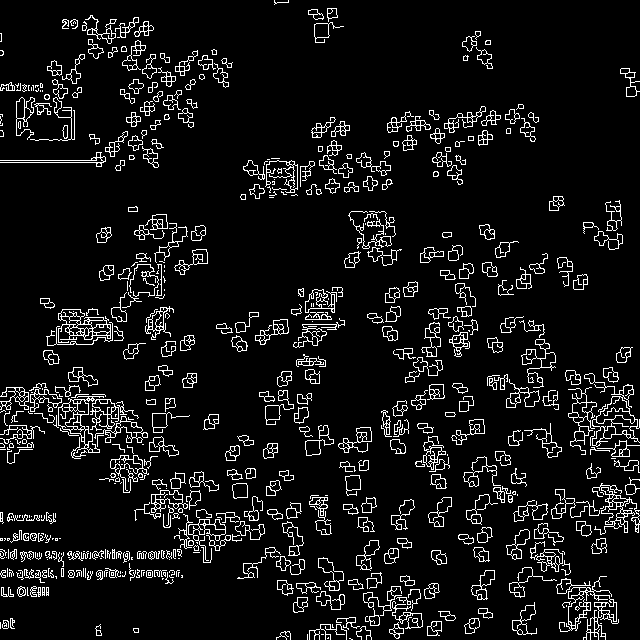
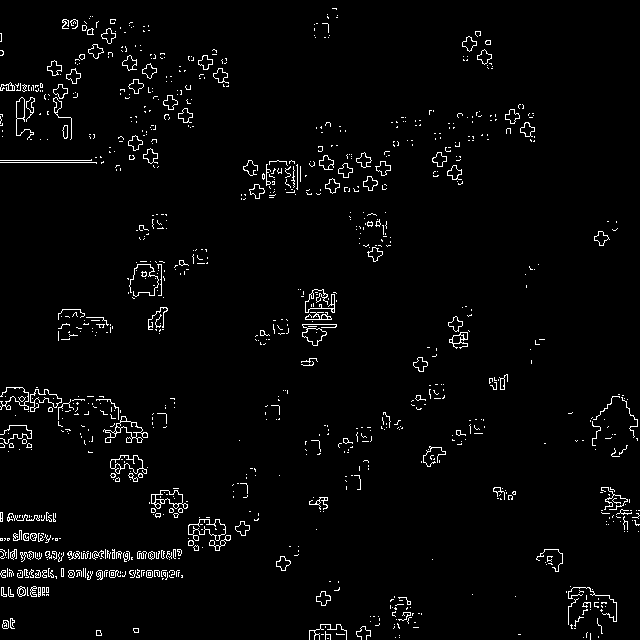
Refactor filter parameters and add enemy outline functionality

diff --git a/knut_sandbox/enemy_outline/enemy_outline_add.py b/knut_sandbox/enemy_outline/enemy_outline_add.py
@@ -1,0 +1,57 @@
+import os
+from PIL import Image, ImageChops, ImageFilter
+
+
+def add_outline(img, thickness=1, outline_color=(0, 0, 0, 255)):
+    """
+    Adds a crisp black outline to a transparent image by dilating the alpha channel.
+    Uses an expansion approach to ensure the outline sits around the enemy.
+
+    Parameters:
+      img: PIL.Image object in RGBA mode.
+      thickness: outline thickness in pixels.
+      outline_color: RGBA tuple for the outline color.
+
+    Returns:
+      A new PIL.Image with an outline added.
+    """
+    if thickness <= 0:
+        return img
+
+    # Ensure the image is in RGBA.
+    img = img.convert("RGBA")
+
+    # Create a new blank image to accommodate the outline
+    new_size = (img.width + thickness * 2, img.height + thickness * 2)
+    canvas = Image.new("RGBA", new_size, (0, 0, 0, 0))
+    canvas.paste(img, (thickness, thickness))
+
+    # Extract and dilate the alpha channel
+    alpha = canvas.split()[-1]
+    dilated = alpha.filter(ImageFilter.MaxFilter(thickness * 2 + 1))
+
+    # The outline mask is the dilated alpha minus the original alpha
+    outline_mask = ImageChops.subtract(dilated, alpha)
+
+    # Create an image for the outline using the outline_color
+    outline_img = Image.new("RGBA", new_size, (0, 0, 0, 0))
+    outline_img.paste(outline_color, mask=outline_mask)
+
+    # Composite the outline and the original image
+    final_img = Image.alpha_composite(outline_img, canvas)
+    return final_img
+
+
+enemy_img = Image.open("knut_sandbox/enemy_outline/chars8x8rEncounters_58.png")
+
+# Resize the enemy image 4x its original dimensions
+enemy_img_resized = enemy_img.resize(
+    (enemy_img.width * 2, enemy_img.height * 2), resample=Image.BICUBIC)
+enemy_img_resized = add_outline(enemy_img_resized, thickness=1)  # Add a 1-pixel black outline  # Add a 1-pixel black outline
+enemy_img_resized = enemy_img_resized.resize(
+    (enemy_img_resized.width * 2, enemy_img_resized.height * 2), resample=Image.BOX)
+e_width, e_height = enemy_img_resized.size
+enemy_img_resized = add_outline(enemy_img_resized, thickness=1)  # Add a 1-pixel black outline  # Add a 1-pixel black outline
+
+# Display enemy image
+enemy_img_resized.show()

diff --git a/knut_sandbox/image-edge-filtering/src/filters.py b/knut_sandbox/image-edge-filtering/src/filters.py
@@ -46,8 +46,8 @@ def apply_filter_1(image, param1, param2):
     """
     # Convert to grayscale
     gray = cv2.cvtColor(image, cv2.COLOR_BGR2GRAY)
-    lower_threshold = param1 * 50      # Example adjustment
-    upper_threshold = param2 * 100
+    lower_threshold = param1 * 250      # Example adjustment
+    upper_threshold = param2 * 255
     edges = cv2.Canny(gray, lower_threshold, upper_threshold)
     # Convert single channel edge image back to BGR for consistency
     return cv2.cvtColor(edges, cv2.COLOR_GRAY2BGR)

diff --git a/knut_sandbox/image-edge-filtering/src/main.py b/knut_sandbox/image-edge-filtering/src/main.py
@@ -18,8 +18,8 @@ def main():
     image = load_image(image_path)
 
     filters = [
-        (apply_filter_1, {'param1': 1, 'param2': 2}),
-        (apply_filter_2, {'param1': 3}),
+        (apply_filter_2, {'param1': 1, 'param2': 1}),
+        (apply_filter_2, {'param1': 1}),
         (apply_filter_3, {'param1': 3, 'param2': 5, 'param3': 0}),
     ]
     
